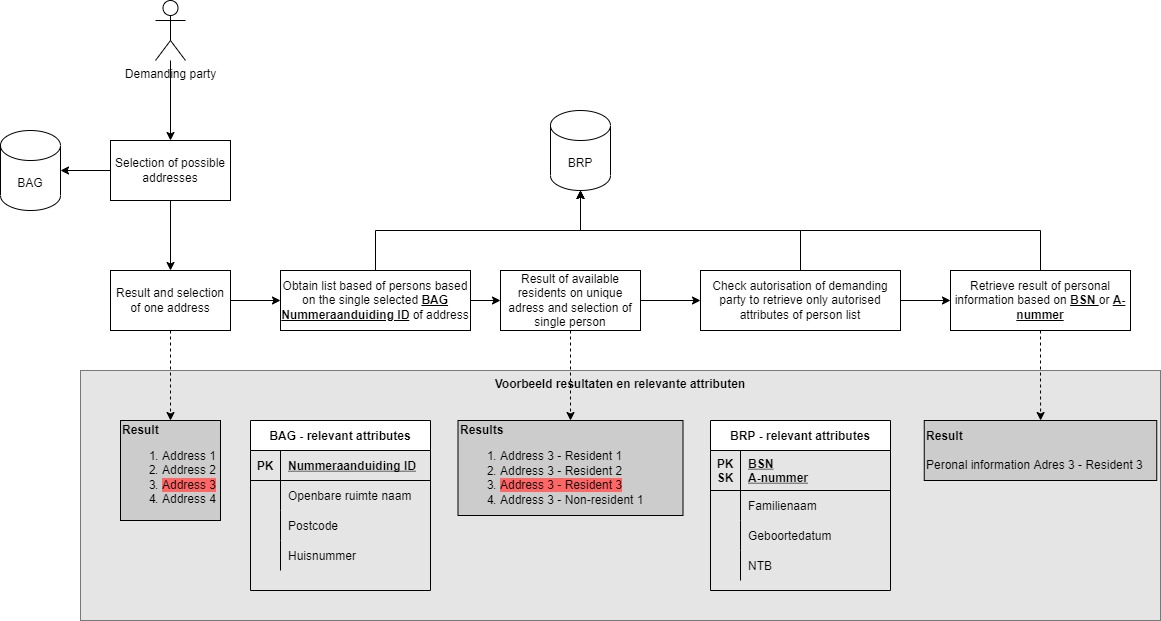
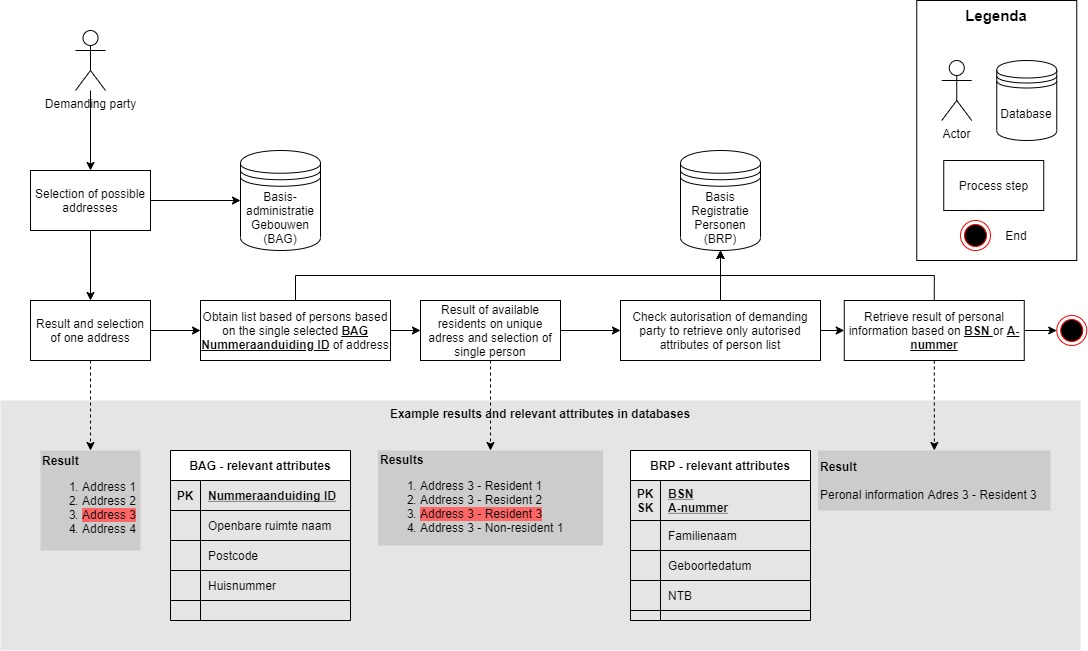
Updates from Overleaf

diff --git a/Master Thesis - Maarten Swaap/sections/implementation.tex b/Master Thesis - Maarten Swaap/sections/implementation.tex
@@ -8,57 +8,38 @@
 %\includegraphics[width=12cm]{Decomposition of ASR and QAS_zoomed in on %ASR-1 and ASR-2_v2.jpg}\\
 \chapter{Implementation}\label{s:Implementation}
 \todo{better describe why there is a different between currently implemented and future architectures}
-Research question 3 focuses on patterns and tactics, in context of software architecture. Bass \etal \cite{Bass2015SoftwareAI} describes architectural patters as "Compositions of architectural elements and provide packaged strategies for solving some of the problems facing a system." This section will give examples on patterns and tactics, combined with trade-offs to take in account when designing a system. Combined with the collected business goals and concerns.
+Research question 3 focuses on patterns and tactics, in context of software architecture. Bass \etal \cite{Bass2015SoftwareAI} describes architectural patters as "Compositions of architectural elements and provide packaged strategies for solving some of the problems facing a system." This section contains examples of processes represented by views and contain patterns and tactics. Focusing on the quality attribute 'Confidentiality', which is the quality attribute that could mitigate the operational problems in section \ref{OP}. 
 
-Patterns exist of multiple tactics. While tactics are chosen to empower a single quality attribute, a pattern could serve multiple quality attributes. This chapter will cover one pattern and a set of tactics. Both focused on the quality attribute 'Confidentiality'.
-
-Section \ref{QI} discusses the quantified problem and argues logical reasoning will define how a solution could mitigate the operational problem mentioned in section \ref{Operational_problem}
+Section \ref{QI} discusses the quantified problem and argues logical reasoning will define how a solution could mitigate the operational problem mentioned in section \ref{OP}
 \section{Pattern - Zero-knowledge proof}
-%\graphicspath{ {./images/} }
-%\begin{figure}[t]
-%\centering
-%\label{fig:ZKP}
-%\includegraphics[width=15cm]{A zero-knowledge-proof-based %digital identity management scheme in blockchain.png}\\
-%\caption{Zero knowledge proof}
-%\end{figure}
 By definition of Goldwasser \etal \cite{Goldwasser} "A zero-knowledge proof (ZKP) makes it possible to prove a statement is true while preserving confidentiality of secret information". 
 Xiaohui Yang and Wenjie Li \cite{YANG2020102050} state "Zero-knowledge proof (ZKP) is a cryptography technique, which means that the prover can convince the verifier that a certain statement is correct without providing the verifier with any additional information or leaking any information about the witness." Figure \ref{fig:ZKP_usecase} shows a schema on how this principle works. The ZKProof Community reference \cite{2019:zkproof:community-reference-0.2} of Bennarroch \etal is intended to provide a reference for development of zero-knowledge proof by contribution of world-renowned cryptographers, practitioners and industry leaders.
 Reasoning why this methodology or pattern is a solution for the operational problem in section \ref{OP} is if there is no identity data to be shared or replicated, there will be no profiling or unauthorized correlation of identity data can be done. Without identity data it's not possible to commit identity fraud.
 
-\subsection{Application of Zero-Knowledge proof}
-Zero-knowledge proof itself is a methodology which translates in a variety of technical implementation possibilities. Assessing suitability of this pattern is done by scoping a possible solution in a use-case.
-
-\todo{Improve this use-case description}
-Acting parties: Employer, employee, Belastingdienst.
-When a citizen starts working at an employer, the employer is responsible for the wage declaration. The wage declaration contains income taxes and it's transferred to the tax authorities. In the happy flow, all information off the employee is processed correctly. However, there are practical exceptions, where an employer receives the wrong BSN. The BSN is incorrect or does not match with the employee. Both result in overhead in administration and incorrect data within wage declaration chain.
-A possible solution would be to let the employer check the correctness of personal information when hiring a citizen. Section \ref{BRP} describes the BRP as the central database of personal identity data of citizens and could be used for this purpose. However, giving all employees access to this source of data is not desirable. Not acting in good faith could result in scraping the database to commit fraud or unauthorized usage of personal data, like mentioned in section \ref{Operational_problem}. Zero-knowledge proof could be a pattern that can resolve this problem by providing a check if the data the employer receives from an employee matches with a person in the BRP. 
-
+\subsection{Use-case description}
 \graphicspath{ {./images/} }
 \begin{figure}
 \centering
 \label{fig:ZKP_usecase}
-\includegraphics[width=17cm]{Usecase for zkp.jpg}\\
-\caption{Example usecase where ZKP could suffice}
+\includegraphics[width=10cm]{Usecase for zkp.jpg}\\
+\caption{Scenarios - set of usecases on one of ZKP could be applied}
 \end{figure}
+Zero-knowledge proof itself is a methodology which translates in a variety of technical implementation possibilities. Suitability needs to be assessed per use-case, therefore this research contains an example with high-level scenarios and use-cases depicted in figure \ref{fig:ZKP_usecase}.
 
-\todo{Add solution, what to take into account globally}
+This use-case contains three acting parties, namely the employee, employer and tax authorities (Belastingdienst).
+Firstly a citizen registers finishes it's registration of personal data at a municipality or non-residents database desk. After this process is finished the citizen receives a BSN, which serves as a UIN throughout all government administrations. The citizen starts working at an employer, fills in his personal information for the wage declaration, including the BSN (2). The employer is responsible to transfer the wage declaration and administer it in a transfer to the tax authorities (4). Based on the BSN in the wage declaration, the tax authority checks the personal identity data (5). \par
+In the happy flow, all information off the employee is correct and wage declaration is processed correctly. However, there are practical exceptions, where an employer administers an incorrect BSN or the set of personal information does not match that BSN. In this case, the wage declaration is processed incorrectly. Impact can be another citizen, with the wrongly entered BSN, being taxed for the wage of another citizen. Correcting this mistakes are costly for the government and intense for a citizen who could be negatively impacted because of a higher wage.
 
-\subsection{Trade-offs and concerns}
-\todo{Scrapbook, needs refinement}
-Maintainability - The complexity of the methodology and need of a continuous maintenance on the part of applying the correct algorithm. 
-Adaptability - 
-
-Depending on the type of algorithm used, it's up-to-date on known issues and treats (bedreigingen).
-Trade-off snelheid/efficientie. Depends on choosen methodology and algoritm. It's needed to address the needed calculation power (and assumed costs) when selecting algoritms 
-\todo{Better describe and support these trade-offs and concerns}
+\subsection{Use-case 3: application of zero-knowledge proof}
+A possible solution would be to let the employer check the correctness of personal information when hiring a citizen. Section \ref{BRP} describes the BRP as the central database of personal identity data of citizens and could be used for this purpose. However, pushing information from the BRP to an employer is not legally allowed. One of the risks could be not acting in good faith which could result in scraping the database to commit fraud or unauthorized usage of personal data mentioned in section \ref{OP}. Zero-knowledge proof could be a pattern to resolve this problem by providing a check if the data the employer receives from an employee matches with a person in the BRP. 
 
 \section{Tactics - Quality attribute 'Confidentiality'}
 \graphicspath{ {./images/} }
 \begin{figure}
 \centering
 \label{fig:Tactics}
-\includegraphics[width=17cm]{Tactics.jpg}\\
-\caption{Confidentiality tactics}
+\includegraphics[width=14cm]{Tactics.jpg}\\
+\caption{Confidentiality tactics - next section handles examples in blue frame}
 \end{figure}
 
 \subsection{Authentication}
@@ -66,7 +47,13 @@ A commonly used method for authentication purposes is usage of a certificate. Fo
 
 \subsection{Data minimization}
 \todo{add a description of this method, but emphasise how it's possible to use in software architecture}
-\lipsum[1-1]
+\graphicspath{ {./images/} }
+\begin{figure}
+\centering
+\label{fig:Ad-hoc}
+\includegraphics[width=14cm]{Ad-hoc adresvraag dataminimalisatie-EN.jpg}\\
+\caption{Logical view - example of data minimization in a process}
+\end{figure}
 
 \subsection{Encryption - Transfer of data is encrypted with TLS 1.2 or higher}
 A broadly implemented standard. The Dutch government has a reference architecture NORA (Nederlandse Overheid Referentie Architecture) \cite{NORA} which states this standard needs to be applied or otherwise explained why it has not been implemented \cite{NORA_PasToeOfLegUit}. On the part of TLS its clear version 1.2 or higher is accepted, but version 1.3 is prefered \cite{NORA_TLS}. 
@@ -74,6 +61,24 @@ A broadly implemented standard. The Dutch government has a reference architectur
 \subsection{Peudonymization - Polymorphic Identity or Polymorphic Pseudonym}
 When it's mandatory to share personal information, because it's for example mandatory by law, it's possible to provide this information as a pseudonym. GDPR \cite{GDPR} defines this method as a possibility to mitigate unwanted disclosure of personal information. 
 This technique is already implemented and proven it can work by Erik Verheul \cite{VerheuleID}.
+
+\section{Trade-offs and concerns}
+\todo{Scrapbook, needs refinement}
+
+\begin{tblr}{
+ hlines = {white},
+ vlines = {white},
+ cell{2,3,4,5,6}{1} = {red7}
+}
+  & Trade-off & Concern & Threats and risk \\
+ Maturity & 1 & C-xx, C-xx, C-xx & 3 \\
+ Authenticity & 1 & C-xx, C-xx, C-xx & 3 \\
+ Accountability & 1 & C-xx, C-xx, C-xx & 3 \\
+\end{tblr}
+
+Trade-off snelheid/efficientie. Depends on choosen methodology and algoritm. It's needed to address the needed calculation power (and assumed costs) when selecting algoritms 
+\todo{Better describe and support these trade-offs and concerns}
+
 
 
 %%% Local Variables:

diff --git a/Master Thesis - Maarten Swaap/sections/appendix.tex b/Master Thesis - Maarten Swaap/sections/appendix.tex
@@ -4,7 +4,7 @@
 %: ----------------------- name of chapter  -------------------------
 \appendix 
 \chapter{Interviewees and consulted experts} \label{Appendix A} % top level followed by section, subsection 
-This section will describe the role of interviewees. This covers both interviewees, where semi-structures interviews where taken and consulted experts, where informal conversations on a subject where needed to understand a field of interest better. Some interviewees where consulted before and after the structured interview for a deeper discussion on topics. 
+This section will describe the role of interviewees. This covers both interviewees, where semi-structures interviews where taken and consulted experts, where informal conversations on a subject where needed to understand a field of interest better. Interviewees 01 and 02 where consulted before and after the structured interview for a deeper discussion on topics. 
 Appendix B and C contain a cross-reference with this consulted persons. 
 
 \begin{longtblr}[

diff --git a/Master Thesis - Maarten Swaap/sections/overview.tex b/Master Thesis - Maarten Swaap/sections/overview.tex
@@ -4,8 +4,8 @@
 This overview contains a Utility Tree, which captures the Architecturally significant requirements (ASR). These ASRs are extracted from interviews (interviewee description in Appendix  \ref{Appendix A}) and combine with the Business Goals and Concerns (available in Appendix \ref{Appendix B} and  \ref{Appendix C}) 
 
 \graphicspath{ {./images/} }
-\begin{figure}[t]
-\includegraphics[width=14cm]{Decomposition of ASR and QAS-Utility Tree v2.jpg}\\
+\begin{figure}
+\includegraphics[width=14cm]{Decomposition of ASR and QAS-Utility Tree v3.jpg}\\
 \caption{Decomposition of Architecturally significant requirements}
 \label{fig:ASR1}
 \end{figure}
